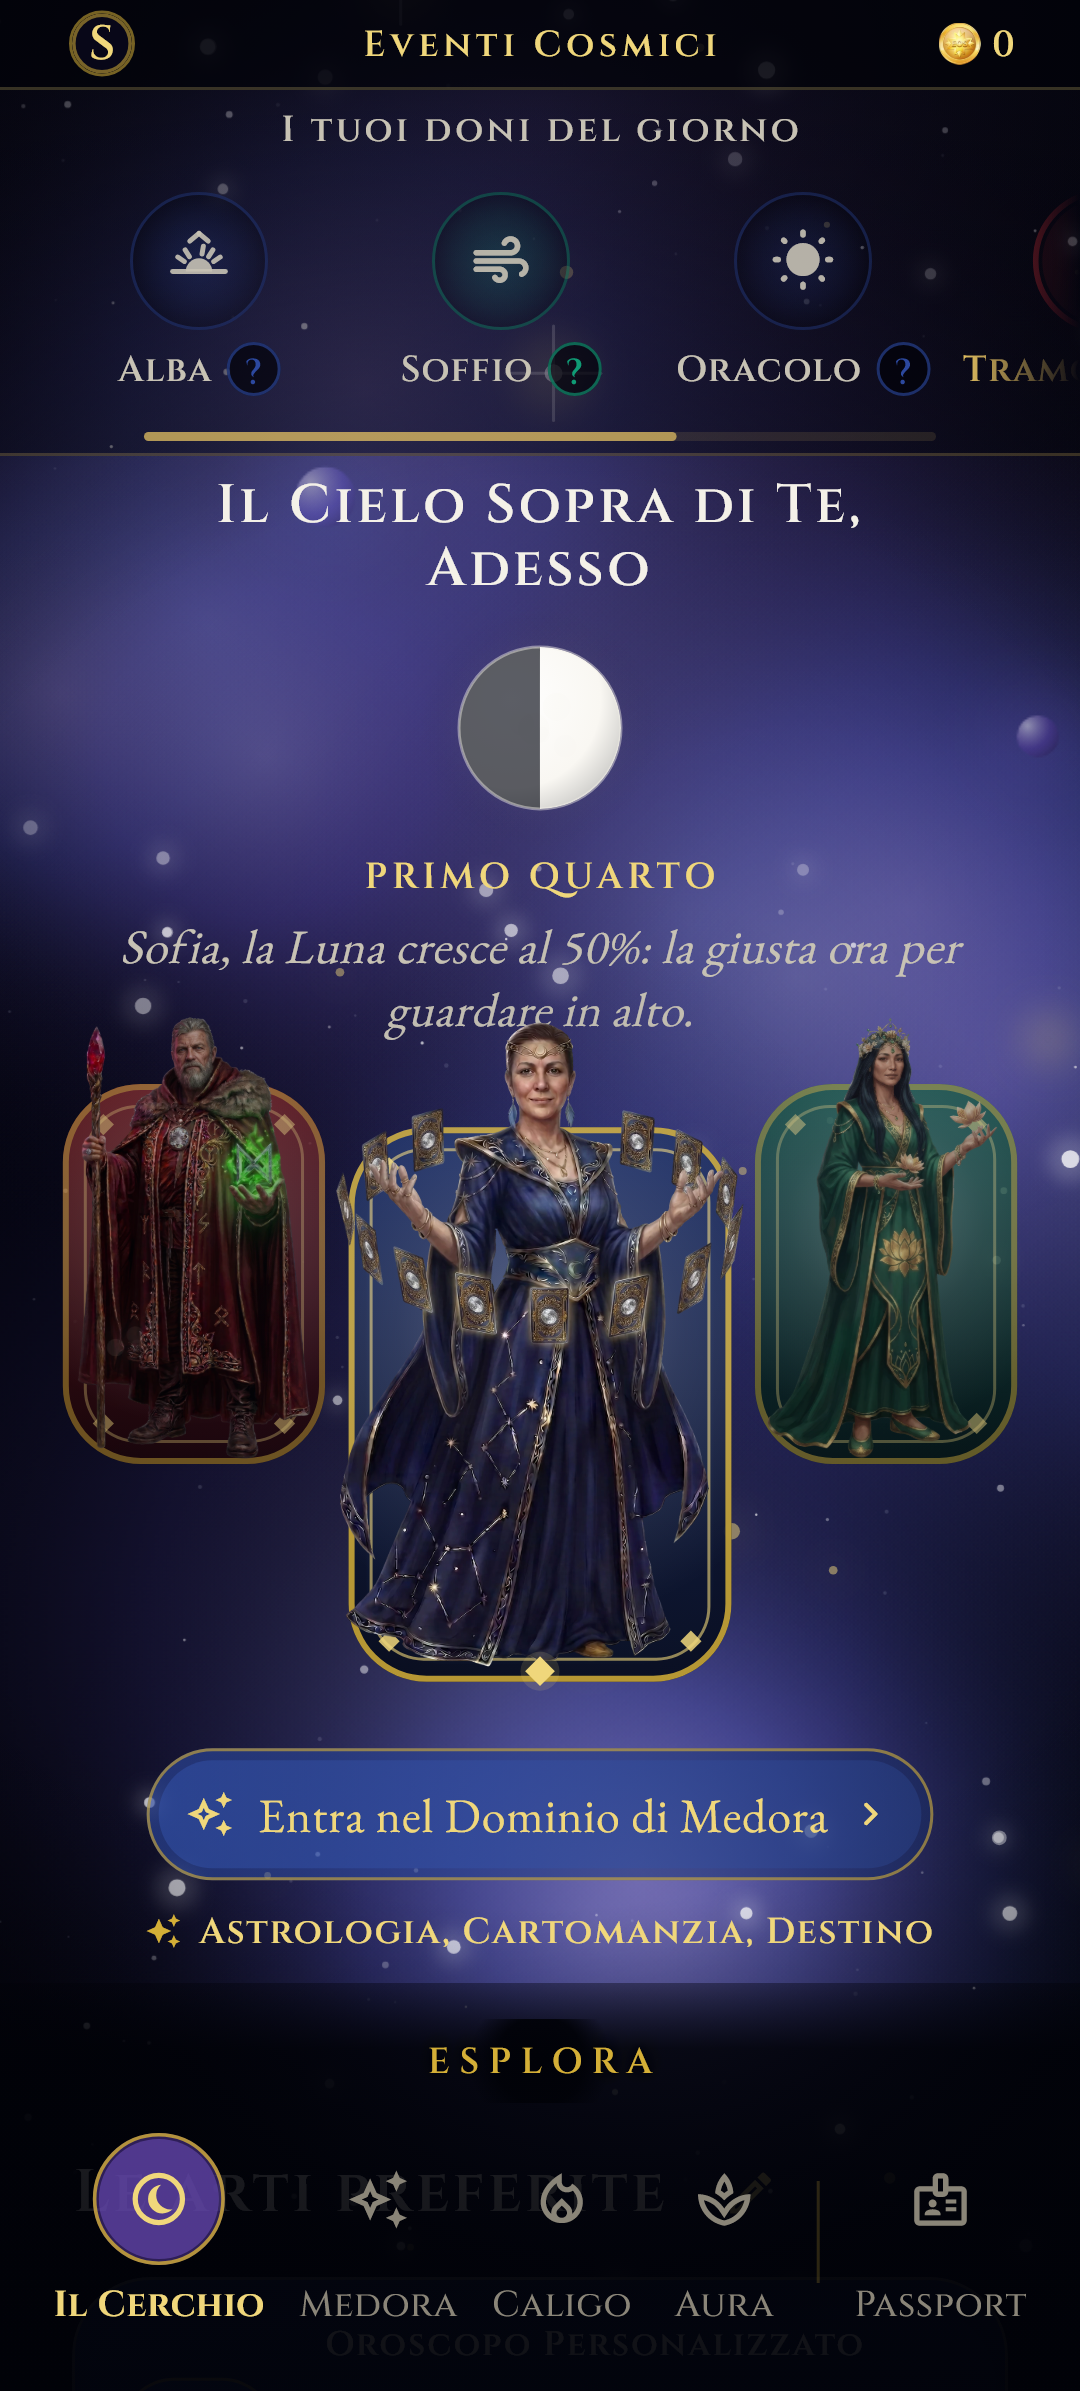
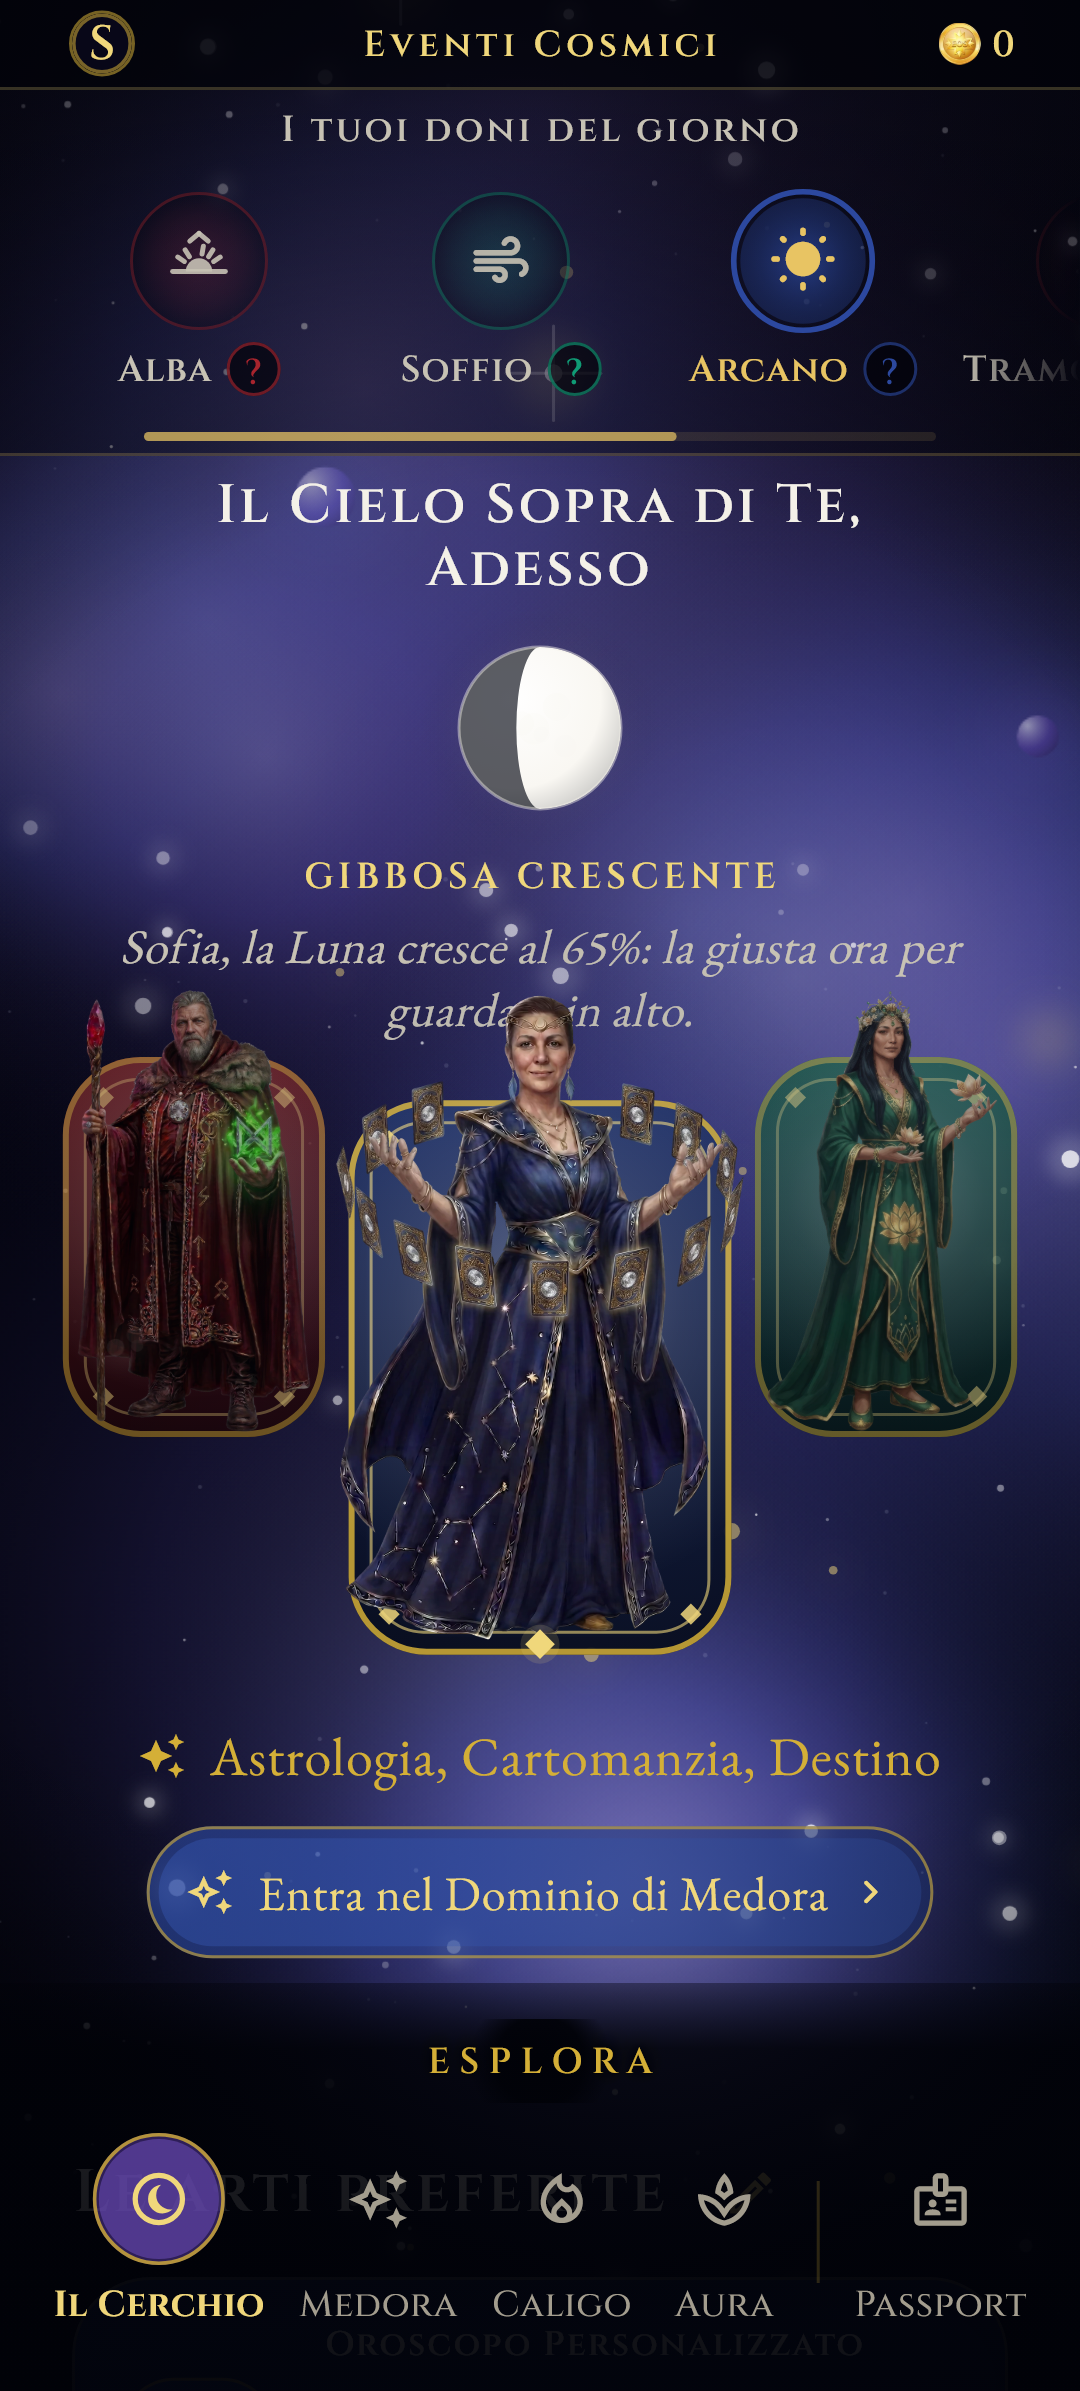
AS.11 chiusa, e AS.02 FERMATA SU DECISIONE DEL FONDATORE
AS.11, le arti saltano all occhio. La critica dei fondatori era giusta: chi
arriva non conosce i Maestri e cerca un arte, ma trovava Entra nel Dominio di
Medora, che e un nome proprio, e le tre arti stavano SOTTO il pulsante, nel
ruolo tipografico piu piccolo dell app e in oro tenue, cioe l ultima cosa che
l occhio prende.

Adesso sono la prima cosa dopo il nome: sopra il pulsante, al corpo del testo
di lettura (18 contro il pavimento 12), in oro pieno. Misurato a schermo:
arti a 574, pulsante a 608. Il pulsante resta sotto, ed e giusto: prima si
legge cosa c e, poi si tocca per entrarci.

Una guardia della bolla pretendeva le arti SOTTO il pulsante: la pretesa si
rovescia insieme alla gerarchia e continua a sorvegliare che le due cose non
si accavallino.

AS.02 E FERMATA SU DECISIONE DEL FONDATORE, presa il 21 agosto a voce gia
lavorata: non si sviluppa oltre, non si rifinisce e non si consegna, e la
sostituzione arriva con l ordine AT. Il codice gia in ramo dal commit
becfc97d resta e le sue guardie restano verdi; il manifesto dichiara cosa c e
e cosa la fermata sospende.

La guardia dell ordine impara lo stato nuovo e lo conta a parte: una fermata
su decisione del fondatore non e una fermata in attesa di decisione, che vuol
dire chiusa quando Mauro guarda.

diff --git a/test/le_arti_saltano_all_occhio_test.dart b/test/le_arti_saltano_all_occhio_test.dart
@@ -1,0 +1,97 @@
+import 'package:esoteric_circle/core/maestro/maestro.dart';
+import 'package:esoteric_circle/design_system/tokens/typography_tokens.dart';
+import 'package:flutter/material.dart';
+import 'package:flutter_test/flutter_test.dart';
+
+import 'package:esoteric_circle/core/identity/profile_controller.dart';
+import 'package:esoteric_circle/core/maestro/maestro_controller.dart';
+import 'package:esoteric_circle/core/motion/parallax_controller.dart';
+import 'package:esoteric_circle/core/quality/quality_tier.dart';
+import 'package:esoteric_circle/features/santuario/greeting_controller.dart';
+import 'package:esoteric_circle/core/astro/zodiac_controller.dart';
+import 'package:esoteric_circle/design_system/theme/maestro_scope.dart';
+import 'package:esoteric_circle/features/santuario/santuario_screen.dart';
+import 'package:provider/provider.dart';
+import 'package:shared_preferences/shared_preferences.dart';
+
+/// LE ARTI DEL MAESTRO SALTANO ALL'OCCHIO. Ordine AS voce 11.
+///
+/// **La critica dei fondatori**: chi arriva non conosce i Maestri e cerca
+/// un'arte. Cercava "tarocchi" e trovava "Entra nel Dominio di Medora", che e'
+/// un nome proprio; le tre arti stavano sotto il pulsante, nel ruolo
+/// tipografico piu' piccolo dell'app e in oro tenue.
+///
+/// **Cosa si misura, e sono due cose che si vedono davvero a schermo**: che le
+/// arti stiano SOPRA il pulsante, cioe' che l'occhio le prenda prima, e che
+/// siano scritte piu' grandi del pulsante stesso.
+void main() {
+  testWidgets('le arti stanno sopra il pulsante del dominio, e sono piu grandi',
+      (tester) async {
+    SharedPreferences.setMockInitialValues(const {
+      'onboarding.done': true,
+      'santuario.greeted': true,
+    });
+    tester.view.physicalSize = const Size(1080, 2391);
+    tester.view.devicePixelRatio = 3.0;
+    addTearDown(tester.view.reset);
+    await tester.pumpWidget(MultiProvider(
+      providers: [
+        ChangeNotifierProvider(create: (_) => MaestroController()),
+        ChangeNotifierProvider(create: (_) => ParallaxController()),
+        ChangeNotifierProvider(create: (_) => QualityTierController()),
+        ChangeNotifierProvider(create: (_) => ZodiacController()),
+        ChangeNotifierProvider(create: (_) => ProfileController()),
+        ChangeNotifierProvider(create: (_) => GreetingController()),
+      ],
+      child: MaterialApp(
+        debugShowCheckedModeBanner: false,
+        builder: (ctx, child) => MediaQuery(
+          data: MediaQuery.of(ctx).copyWith(disableAnimations: true),
+          child: MaestroScope(child: child!),
+        ),
+        home: SantuarioScreen(clock: () => DateTime(2026, 7, 30, 21)),
+      ),
+    ));
+    await tester.pump();
+    await tester.pump(const Duration(milliseconds: 500));
+
+    final arti = find.byKey(const Key('santuario_domain_arts'));
+    final pulsante = find.byKey(const Key('santuario_enter_domain'));
+    expect(arti, findsOneWidget,
+        reason: 'la riga delle arti non c e piu nella home');
+    expect(pulsante, findsOneWidget);
+
+    final rArti = tester.getRect(arti);
+    final rPulsante = tester.getRect(pulsante);
+    // ignore: avoid_print
+    print('ORDINE AS VOCE 11: arti a ${rArti.top.toStringAsFixed(1)}, '
+        'pulsante a ${rPulsante.top.toStringAsFixed(1)}');
+    expect(rArti.bottom, lessThanOrEqualTo(rPulsante.top + 1),
+        reason: 'le arti stanno sotto il pulsante: chi cerca un arte legge '
+            'prima un nome proprio che non conosce');
+
+    final testoArti = tester.widget<Text>(arti);
+    final corpoArti = testoArti.style!.fontSize!;
+    // ignore: avoid_print
+    print('ORDINE AS VOCE 11: corpo delle arti $corpoArti, pavimento '
+        '${TypographyTokens.pavimento}');
+    expect(corpoArti, greaterThan(TypographyTokens.pavimento),
+        reason: 'le arti sono ancora al ruolo piu piccolo dell app: erano '
+            'l ultima cosa che l occhio prende, e devono essere la prima');
+  });
+
+  test('ogni Maestro dichiara le sue tre arti, e sono diverse', () {
+    final tutte = <String>{};
+    for (final maestro in Maestro.values) {
+      final arti = maestro.domainArts.split(',').map((s) => s.trim()).toList();
+      expect(arti, hasLength(3),
+          reason: '${maestro.id} dichiara ${arti.length} arti invece di tre');
+      tutte.addAll(arti);
+    }
+    // ignore: avoid_print
+    print('ORDINE AS VOCE 11: arti distinte fra i tre Maestri ${tutte.length}');
+    expect(tutte, hasLength(9),
+        reason: 'due Maestri condividono un arte: chi la cerca non sa dove '
+            'andare');
+  });
+}

diff --git a/lib/features/santuario/santuario_screen.dart b/lib/features/santuario/santuario_screen.dart
@@ -1133,33 +1133,45 @@ class _DomainEntry extends StatelessWidget {
     final palette = MaestroPalette.forKey(ThemeKey.of(maestro));
     // Solo il pulsante e la riga delle arti: nessun saluto sopra, cosi' non si
     // sovrappone alla carta. Ogni Maestro si presenta dentro il proprio dominio.
+    // **LE ARTI SALGONO SOPRA IL PULSANTE. Ordine AS voce 11.**
+    //
+    // **La critica dei fondatori, ed e' giusta**: chi arriva non conosce i
+    // Maestri e cerca un'arte. Cercava "tarocchi" e trovava "Entra nel Dominio
+    // di Medora", che e' un nome proprio e non dice niente a chi non l'ha mai
+    // sentito; le tre arti stavano SOTTO il pulsante, nel ruolo tipografico
+    // piu' piccolo dell'app e in oro tenue, cioe' l'ultima cosa che l'occhio
+    // prende.
+    //
+    // Adesso sono la prima cosa dopo il nome: sopra il pulsante, al corpo del
+    // testo di lettura, in oro pieno. Il pulsante resta sotto, ed e' giusto
+    // cosi': prima si legge COSA c'e', poi si tocca per entrarci.
     return Column(
       mainAxisSize: MainAxisSize.min,
       children: [
-        _EnterDomainButton(maestro: maestro, onTap: onTap),
-        const SizedBox(height: SpacingTokens.xs),
-        // La riga delle tre arti del Maestro.
         Row(
           mainAxisAlignment: MainAxisAlignment.center,
           mainAxisSize: MainAxisSize.min,
           children: [
-            Icon(Icons.auto_awesome, size: 12, color: palette.gold),
-            const SizedBox(width: 6),
+            Icon(Icons.auto_awesome, size: 16, color: palette.gold),
+            const SizedBox(width: 8),
             Flexible(
               child: Text(
                 maestro.domainArts,
                 key: const Key('santuario_domain_arts'),
-                maxLines: 1,
+                maxLines: 2,
                 overflow: TextOverflow.ellipsis,
                 textAlign: TextAlign.center,
-                style: TypographyTokens.etichetta().copyWith(
-                  color: palette.goldSoft,
-                  letterSpacing: 0.6,
+                style: TypographyTokens.lettura().copyWith(
+                  color: palette.gold,
+                  letterSpacing: 0.4,
+                  height: 1.25,
                 ),
               ),
             ),
           ],
         ),
+        const SizedBox(height: SpacingTokens.sm),
+        _EnterDomainButton(maestro: maestro, onTap: onTap),
       ],
     );
   }

diff --git a/test/ordine_as_guard_test.dart b/test/ordine_as_guard_test.dart
@@ -56,6 +56,8 @@ void main() {
         if (riga.contains('CHIUSA')) 'CHIUSA',
         if (riga.contains('FERMATA SU PREMESSA FALSA'))
           'FERMATA SU PREMESSA FALSA',
+        if (riga.contains('FERMATA SU DECISIONE DEL FONDATORE'))
+          'FERMATA SU DECISIONE DEL FONDATORE',
         if (riga.contains('FERMATA IN ATTESA DI DECISIONE'))
           'FERMATA IN ATTESA DI DECISIONE',
         if (riga.contains('APERTA')) 'APERTA',
@@ -74,10 +76,17 @@ void main() {
     expect(marcatore(testo, 'VOCI_TOTALI'), righe.length);
     // Si conta per lo stato PIU' DEBOLE, quello che tiene l'ordine aperto piu'
     // a lungo, come nelle guardie sorelle.
-    var aperte = 0, attesa = 0, premessa = 0, chiuse = 0;
+    // **UNO STATO NUOVO, ordine AS: FERMATA SU DECISIONE DEL FONDATORE.** Non
+    // e' una fermata in attesa di una decisione, che vuol dire "chiusa quando
+    // Mauro guarda": e' una voce che Mauro ha fermato mentre era in corso, e
+    // la cui sostituzione arriva con un ordine successivo. Le due cose non si
+    // confondono, quindi il conto le tiene separate.
+    var aperte = 0, attesa = 0, premessa = 0, chiuse = 0, fondatore = 0;
     for (final r in righe) {
       if (r.contains('APERTA')) {
         aperte++;
+      } else if (r.contains('FERMATA SU DECISIONE DEL FONDATORE')) {
+        fondatore++;
       } else if (r.contains('FERMATA IN ATTESA DI DECISIONE')) {
         attesa++;
       } else if (r.contains('FERMATA SU PREMESSA FALSA')) {
@@ -91,10 +100,12 @@ void main() {
     expect(marcatore(testo, 'VOCI_FERMATE_IN_ATTESA_DI_DECISIONE'), attesa);
     expect(marcatore(testo, 'VOCI_FERMATE_SU_PREMESSA_FALSA'), premessa);
     expect(marcatore(testo, 'VOCI_CHIUSE'), chiuse);
-    expect(aperte + attesa + premessa + chiuse, quante,
-        reason: 'gli stati contati fanno ${aperte + attesa + premessa + chiuse} '
-            'invece di $quante: una voce e\' sparita dal conto pur restando '
-            'nel file');
+    expect(marcatore(testo, 'VOCI_FERMATE_SU_DECISIONE_DEL_FONDATORE'),
+        fondatore);
+    final contate = aperte + attesa + premessa + chiuse + fondatore;
+    expect(contate, quante,
+        reason: 'gli stati contati fanno $contate invece di $quante: una voce '
+            'e\' sparita dal conto pur restando nel file');
   });
 
   test('l\'ordine AS non e\' finito finche\' una voce resta aperta', () {

diff --git a/test/bolla_non_copre_avatar_test.dart b/test/bolla_non_copre_avatar_test.dart
@@ -252,8 +252,15 @@ void main() {
           reason: 'a ${larghezza.round()} per ${altezza.round()} fra il fondo della carta e la cima della bolla ci '
               'sono ${distanza.toStringAsFixed(1)} punti, meno degli otto '
               'richiesti');
-      expect(r.arti.top, greaterThanOrEqualTo(r.bolla.bottom),
-          reason: 'il sottotitolo con le tre arti non sta sotto la bolla');
+      // **LE ARTI STANNO SOPRA LA BOLLA, ordine AS voce 11.** Questa riga
+      // pretendeva il contrario, ed era giusta finche' le tre arti erano un
+      // sottotitolo del pulsante. Adesso sono la prima cosa che si legge dopo
+      // il nome del Maestro, perche' chi arriva cerca un'arte e non conosce i
+      // Maestri: la pretesa si rovescia insieme alla gerarchia, e continua a
+      // sorvegliare che le due cose non si accavallino.
+      expect(r.bolla.top, greaterThanOrEqualTo(r.arti.bottom),
+          reason: 'le tre arti sono tornate sotto la bolla, oppure la bolla '
+              'le si e sovrapposta');
     });
 
     testWidgets('A ${larghezza.round()} per ${altezza.round()} il trio non finisce sotto la striscia dei Doni',

diff --git a/docs/ordini/ORDINE_AS_MANIFESTO.md b/docs/ordini/ORDINE_AS_MANIFESTO.md
@@ -82,40 +82,21 @@ Mauro del 17 agosto 2026.
   il riposo imparato: mostrarne uno solo ha nascosto meta' del fenomeno per un
   ordine intero. Guardia `test/l_inclinazione_parte_dal_riposo_test.dart`.
   **Il numero vero lo legge Mauro dalla riga, sul telefono**)
-- **AS.02** Le feste sono sempre quelle nuove, e esplodono dal centro. Stato: FERMATA IN ATTESA DI DECISIONE
-  (**L'ENUMERAZIONE HA TROVATO IL DIFETTO, ed era piu' semplice di quanto
-  sembrasse.** Le strade che portano a una celebrazione sono DUE, e le sceglie
-  una riga sola dentro `Celebrazione.festeggiaInsieme`: un traguardo GRANDE, o
-  il primo Sigillo in assoluto, apre la scena a schermo pieno; **tutti gli
-  altri aprono la FASCIA**, che mostrava il solo glifo del Maestro senza
-  nessuna particella. I grandi sono quindici su centosessantacinque: la fascia
-  e' il caso normale, e "la maggior parte dei casi" di Mauro era alla lettera
-  il novanta per cento delle feste.
-  Adesso la fascia riceve lo stesso `PittoreDellaFesta` della scena grande,
-  con lo stesso Maestro scelto dal traguardo piu' importante e la stessa posa a
-  Riduci Movimento: una porta sola, non due che si somigliano.
-  **TUTTE E TRE DAL CENTRO, decisione di Mauro.** `DirezioneDellaFesta` resta
-  un'enumerazione ma con un valore solo, e la guardia che pretendeva TRE
-  direzioni diverse adesso ne pretende UNA: non e' una guardia allentata, e'
-  la stessa guardia che sorveglia la decisione nuova, col perche' scritto
-  accanto.
-  **Un difetto trovato strada facendo, per misura.** Con la direzione unica,
-  gli angoli delle particelle erano tirati a sorte, e con le QUARANTA rune di
-  Caligo i quadranti risultavano sbilanciati del 115 per cento: un'esplosione
-  sbilanciata si legge come una direzione. Adesso ogni particella prende la sua
-  fetta di giro dall'indice e il caso decide solo lo scarto dentro la fetta.
-  Misurato dopo: medora 13,4 per cento, aura 25,7, caligo 28,8, tutti sotto il
-  55 ammesso.
-  **LE NOVE ANTEPRIME NASCONO DALLA SCENA VERA**, non piu' da
-  `tool/anteprime_delle_feste.dart` che compone il pittore a mano: la guardia
-  dei quadranti legge quelle immagini, quindi finche' nascevano da uno
-  strumento sorvegliava lo strumento. E lo scope porta il Maestro del sentiero,
-  che mancava: la prima cattura mostrava la festa di Caligo coi colori del
-  Maestro corrente.
-  Guardia nuova `test/anche_la_festa_breve_ha_la_materia_test.dart`, che monta
-  la fascia vera e conta i pixel che cambiano in alto: 28, 11 e 24 su mille coi
-  tre sentieri. **Prova del rosso col pittore congelato**: 4, 3 e 5, e la
-  soglia sta in mezzo a otto, tarata sui due stati e non scelta a occhio)
+- **AS.02** Le feste sono sempre quelle nuove, e esplodono dal centro. Stato: FERMATA SU DECISIONE DEL FONDATORE
+  (**FERMATA DA MAURO IL 21 AGOSTO 2026, a voce gia' lavorata.** La decisione
+  arriva dopo il commit `becfc97d`: la voce non si sviluppa oltre, non si
+  rifinisce e non si consegna. **La sostituzione arriva con l'ordine AT.**
+  **COSA RESTA IN RAMO, e va saputo perche' e' gia' nel codice**: la fascia
+  breve riceve il `PittoreDellaFesta` come la scena grande; `DirezioneDellaFesta`
+  ha un valore solo, `dalCentro`, e tutte e tre le feste partono di li'; gli
+  angoli delle particelle si spartiscono il giro invece di essere tirati a
+  sorte; le nove anteprime nascono dalla scena vera e lo scope porta il Maestro
+  del sentiero. Le guardie nate con la voce restano verdi e sorvegliano quel
+  codice: `test/anche_la_festa_breve_ha_la_materia_test.dart` e la riga
+  rovesciata in `test/tre_feste_una_per_maestro_test.dart`.
+  **Cosa NON e' stato fatto**, ed e' cio' che la fermata sospende: nessun
+  collaudo a video di quelle scene, nessuna rifinitura del movimento, nessuna
+  chiusura. L'ordine AT dira' cosa ne resta)
 - **AS.03** Il borsellino si aggiorna al traguardo. Stato: FERMATA IN ATTESA DI DECISIONE
   (**L'ENUMERAZIONE dei punti in cui un accredito si puo' fermare**, e sono
   quattro: la porta spenta, il server che non risponde, il server che RIFIUTA,
@@ -352,4 +333,5 @@ VOCI_TOTALI: 12
 VOCI_APERTE: 2
 VOCI_CHIUSE: 0
 VOCI_FERMATE_SU_PREMESSA_FALSA: 0
-VOCI_FERMATE_IN_ATTESA_DI_DECISIONE: 10
+VOCI_FERMATE_SU_DECISIONE_DEL_FONDATORE: 1
+VOCI_FERMATE_IN_ATTESA_DI_DECISIONE: 9
